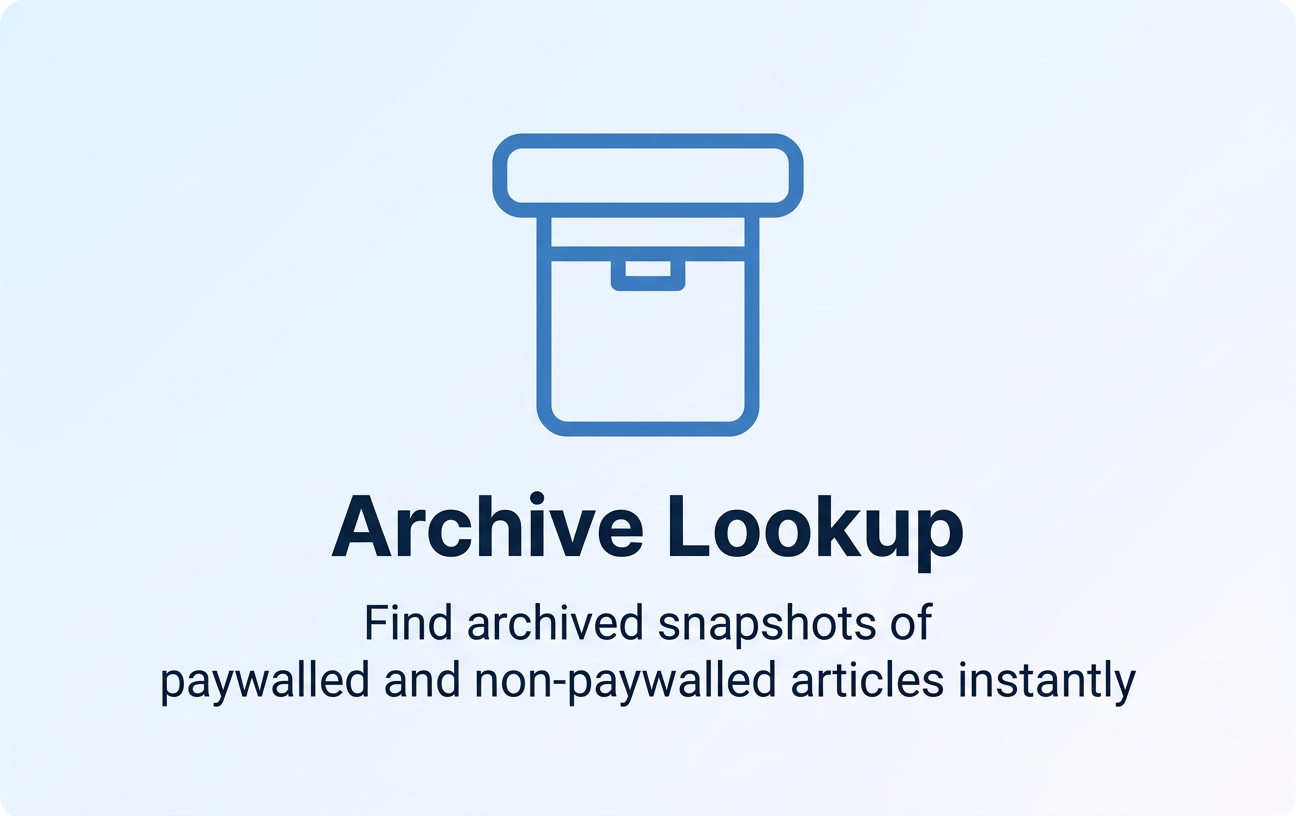
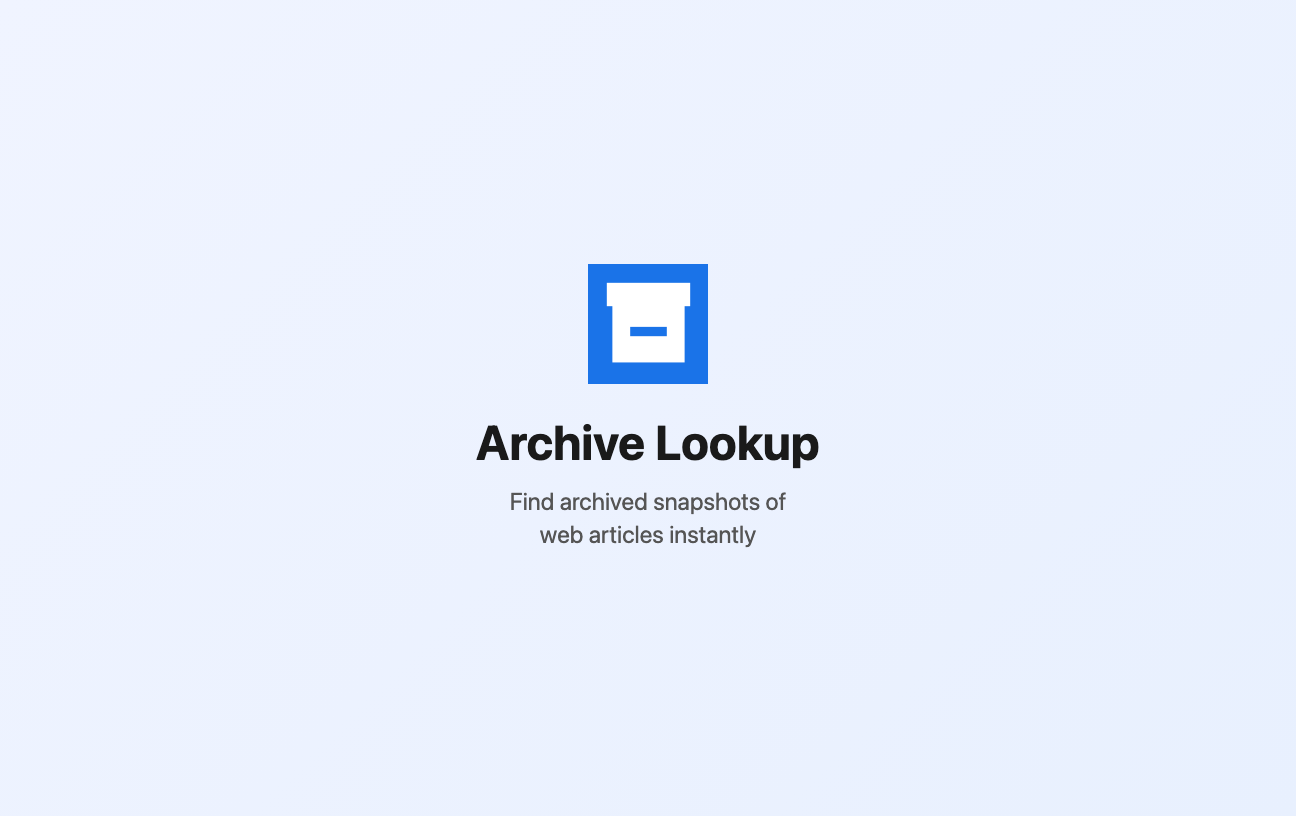
Remove paywall references and fix store rejection triggers
- Change manifest description to remove "paywalls" mention
- Bump version to 1.0.1
- Replace nytimes.com placeholder in popup with example.com
- Replace nytimes.com/wsj.com in tests and README with generic domains
- Bundle BMC logo SVG locally instead of loading from CDN
- Add rules.json and bmc-logo.svg to packaging script
- Regenerate promo images without "paywalled" tagline

Changed region(s): [[0.2469, 0.1532, 0.7407, 0.7047], [0.1235, 0.7353, 0.8951, 0.8578]]

diff --git a/tests/popup.test.js b/tests/popup.test.js
@@ -76,18 +76,18 @@ describe('normalizeDomain', () => {
 
 describe('addSite', () => {
   test('adds valid domain to list', async () => {
-    await mod.addSite('nytimes.com');
+    await mod.addSite('example.com');
     expect(chrome.permissions.request).toHaveBeenCalledWith({
-      origins: ['*://*.nytimes.com/*', '*://nytimes.com/*'],
+      origins: ['*://*.example.com/*', '*://example.com/*'],
     });
     expect(chrome.storage.sync.set).toHaveBeenCalledWith({
-      autoScanSites: ['nytimes.com'],
+      autoScanSites: ['example.com'],
     });
   });
 
   test('undoes save when permission denied', async () => {
     chrome.permissions.request.mockResolvedValue(false);
-    await mod.addSite('nytimes.com');
+    await mod.addSite('example.com');
     expect(chrome.permissions.request).toHaveBeenCalled();
     // First call saves, second call undoes
     expect(chrome.storage.sync.set).toHaveBeenCalledTimes(2);
@@ -112,16 +112,16 @@ describe('addSite', () => {
   });
 
   test('does not add duplicate domain', async () => {
-    await mod.addSite('nytimes.com');
+    await mod.addSite('example.com');
     chrome.storage.sync.set.mockClear();
-    await mod.addSite('nytimes.com');
+    await mod.addSite('example.com');
     expect(chrome.storage.sync.set).not.toHaveBeenCalled();
   });
 
   test('normalizes before adding', async () => {
-    await mod.addSite('https://www.nytimes.com/section');
+    await mod.addSite('https://www.example.com/section');
     expect(chrome.storage.sync.set).toHaveBeenCalledWith({
-      autoScanSites: ['nytimes.com'],
+      autoScanSites: ['example.com'],
     });
   });
 
@@ -135,14 +135,14 @@ describe('addSite', () => {
 
 describe('removeSite', () => {
   test('removes domain from list and revokes permission', async () => {
-    await mod.addSite('nytimes.com');
+    await mod.addSite('example.com');
     chrome.storage.sync.set.mockClear();
-    await mod.removeSite('nytimes.com');
+    await mod.removeSite('example.com');
     expect(chrome.storage.sync.set).toHaveBeenCalledWith({
       autoScanSites: [],
     });
     expect(chrome.permissions.remove).toHaveBeenCalledWith({
-      origins: ['*://*.nytimes.com/*', '*://nytimes.com/*'],
+      origins: ['*://*.example.com/*', '*://example.com/*'],
     });
   });
 

diff --git a/tests/background.test.js b/tests/background.test.js
@@ -313,7 +313,7 @@ describe('checkBatch', () => {
 
 describe('syncContentScriptRegistrations', () => {
   test('unregisters and registers for allowlisted sites', async () => {
-    await mod.syncContentScriptRegistrations(['nytimes.com', 'wsj.com']);
+    await mod.syncContentScriptRegistrations(['example.com', 'test.org']);
 
     expect(chrome.scripting.unregisterContentScripts).toHaveBeenCalledWith({
       ids: ['auto-scan'],
@@ -321,7 +321,7 @@ describe('syncContentScriptRegistrations', () => {
     expect(chrome.scripting.registerContentScripts).toHaveBeenCalledWith([
       {
         id: 'auto-scan',
-        matches: ['*://*.nytimes.com/*', '*://nytimes.com/*', '*://*.wsj.com/*', '*://wsj.com/*'],
+        matches: ['*://*.example.com/*', '*://example.com/*', '*://*.test.org/*', '*://test.org/*'],
         js: ['content.js'],
         css: ['styles.css'],
         runAt: 'document_idle',
@@ -395,10 +395,10 @@ describe('injectIntoMatchingTabs', () => {
       .mockResolvedValueOnce({ pong: true })
       .mockResolvedValue(undefined);
 
-    await mod.injectIntoMatchingTabs(['nytimes.com']);
+    await mod.injectIntoMatchingTabs(['example.com']);
 
     expect(chrome.tabs.query).toHaveBeenCalledWith({
-      url: ['*://*.nytimes.com/*', '*://nytimes.com/*'],
+      url: ['*://*.example.com/*', '*://example.com/*'],
     });
     // Tab 10 gets injected
     expect(chrome.scripting.executeScript).toHaveBeenCalledWith({

diff --git a/popup.html b/popup.html
@@ -167,7 +167,7 @@
       <div class="site-list-header">Auto-scan sites</div>
       <div class="site-list-desc">Only auto-scan on these domains</div>
       <div class="site-input-row">
-        <input type="text" id="site-input" placeholder="e.g. nytimes.com" />
+        <input type="text" id="site-input" placeholder="e.g. example.com" />
         <button class="btn" id="add-site-btn">Add</button>
       </div>
       <button class="btn btn-current" id="add-current-site-btn">Add current site</button>
@@ -197,7 +197,7 @@
         "
       >
         <img
-          src="https://cdn.buymeacoffee.com/buttons/bmc-new-btn-logo.svg"
+          src="icons/bmc-logo.svg"
           alt=""
           width="15"
           height="21"

diff --git a/package_extension.py b/package_extension.py
@@ -21,6 +21,8 @@ EXTENSION_FILES = [
     "icons/icon16.png",
     "icons/icon48.png",
     "icons/icon128.png",
+    "icons/bmc-logo.svg",
+    "rules.json",
 ]
 
 # Store listing docs

diff --git a/README.md b/README.md
@@ -40,6 +40,6 @@ For bulk checking, right-click the page background and select **"Scan page for a
 Auto-scan is enabled by default. To set it up:
 
 1. Click the extension icon to open the popup
-2. Add domains to the allowlist (e.g. `nytimes.com`) — type a domain and click **Add**, or click **Add current site**
+2. Add domains to the allowlist (e.g. `example.com`) — type a domain and click **Add**, or click **Add current site**
 3. Chrome will prompt you to grant permission for each domain
 4. When you visit a page on an allowed domain, visible article links are scanned on load and as you scroll
